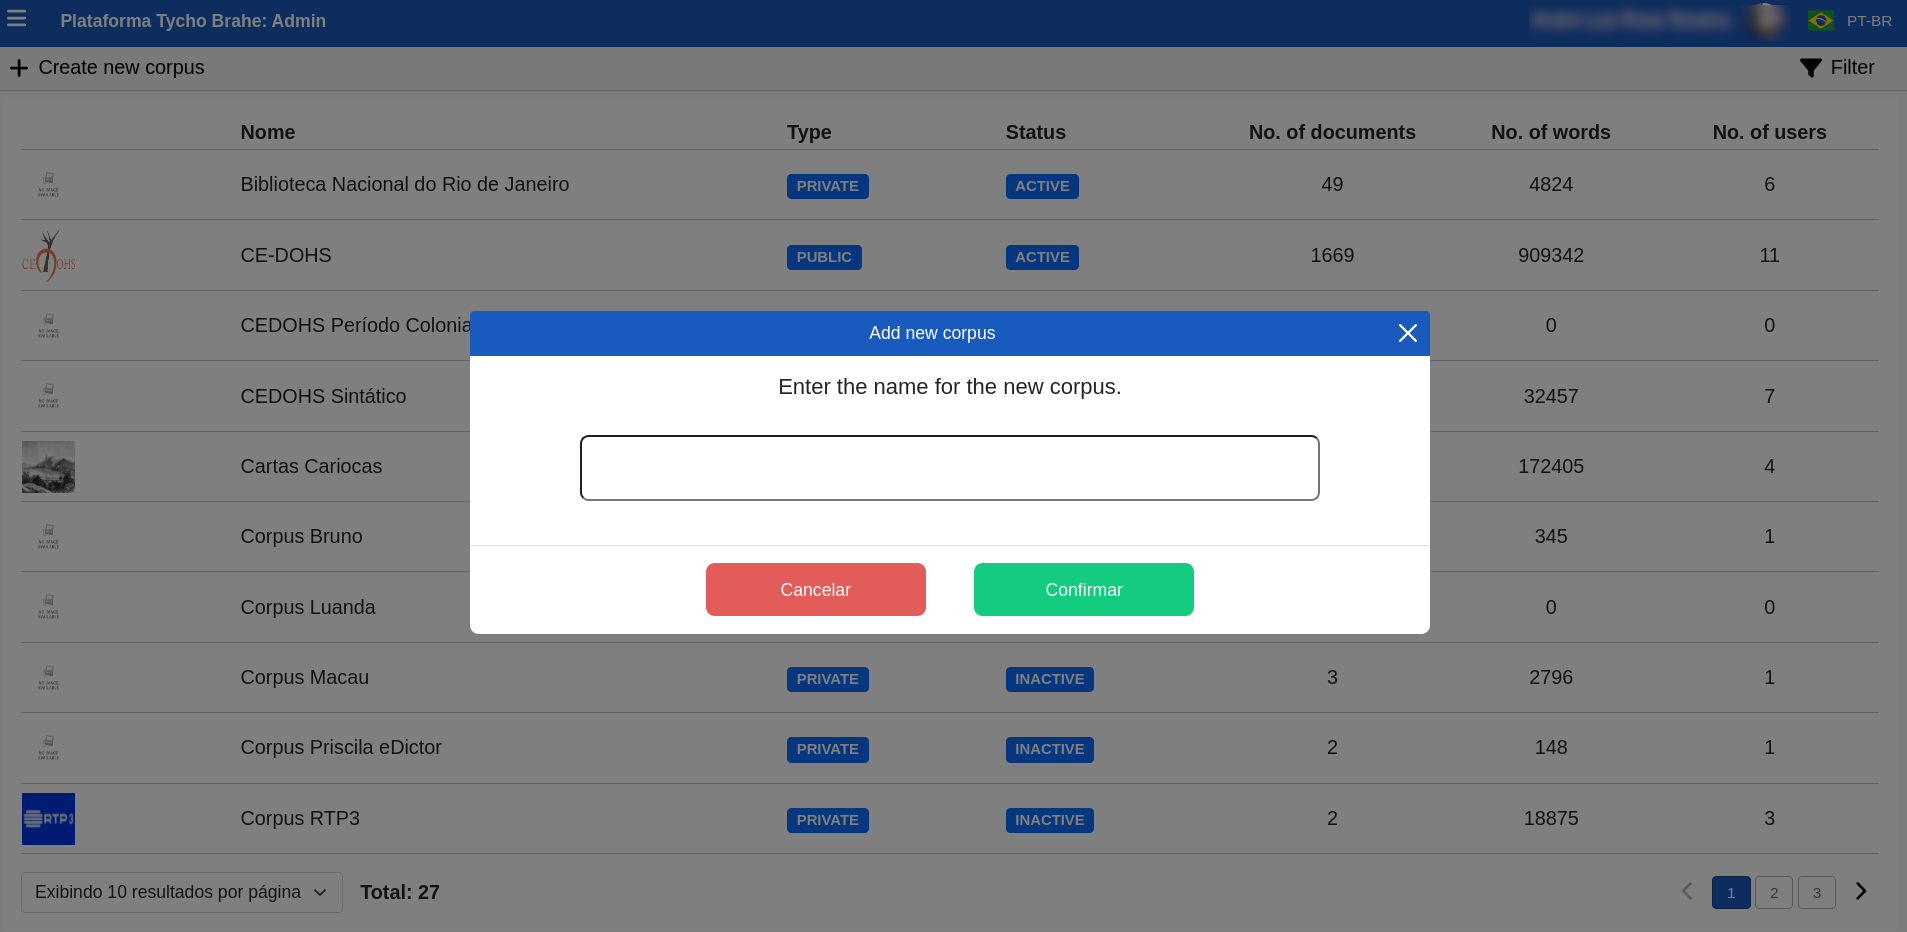
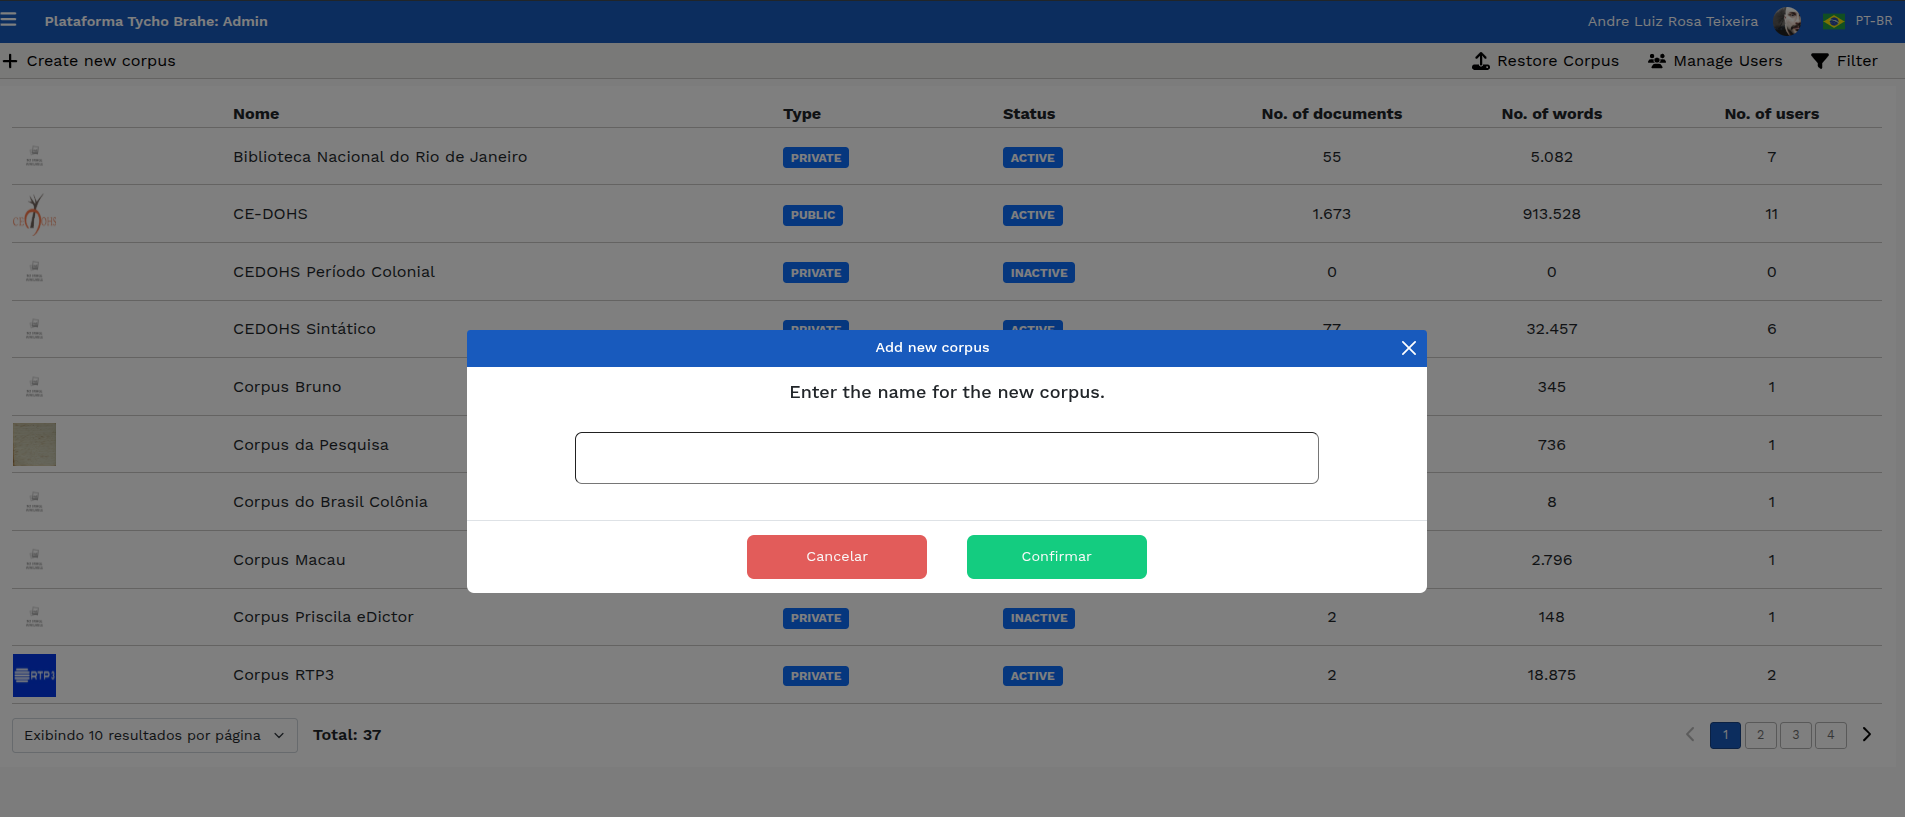
Atualiza - 08 jul- revisão

diff --git a/casos_de_uso_tutorial/tutorial_caso_01_cadastro_novos_usuarios.md b/casos_de_uso_tutorial/tutorial_caso_01_cadastro_novos_usuarios.md
@@ -54,22 +54,51 @@ Note-se a distinção entre Administrador e Usuário com permissão de administr
 
 Antes de iniciar o processo de cadastro de um usuário, certifique-se de que o corpus ao qual o usuário será associado já tenha sido criado.
 
-1. **Acesso ao Sistema**: Há duas maneira de acessar o sistema de gerenciamento dos corpora.
+**Acesso ao Sistema**: Há duas maneira de acessar o sistema de gerenciamento dos corpora.
 
-   1. No caso de acesso por um Administrador sem associação a nenhum corpus na plataforma: faça login na plataforma com sua conta de Administrador (_login_ com a conta Google), através do link <!--(REVISAR: VERIFICAR SE POSSO DEIXAR O LINK) --> “/admin”: <https://www.tycho.iel.unicamp.br/admin>. Este link redireciona o Administrador à janela de login com a conta Google ou com as credenciais (email e senha) cadastradas.
+   1. No caso de acesso por um Administrador sem associação a nenhum corpus na plataforma: faça login na plataforma com sua conta de Administrador (_login_ com a conta Google), através do link “/admin”: <https://www.tycho.iel.unicamp.br/admin>. Este link redireciona o Administrador à janela de login com a conta Google ou com as credenciais (email e senha) cadastradas.
    2. No caso de acesso por um Usuário com permissão de admin nos corpora alvos: seguir tutorial de Caso de Uso 00 - para acesso à area de perfil do usuário.
 
-2. **Verificar Corpora**:
+**Verificar Corpora**:
 
-   1. **Administrador**: todos os corpora disponíveis para o Administrador aparecem na sua página inicial, através do link <https://www.tycho.iel.unicamp.br/admin> (e devido login), listados com os campos: Nome, Type, Status No. of documents, No. of words, No. of users. Verifique se o corpus que deseja gerenciar está disponível (note que são exibidos 10 resultados por página, e que pode haver várias páginas de corpora - então navegue em todas as páginas para verificar a presença do corpus alvo).<br><br>!["t"](../imagens/corpus_selecionado.png)
-      Tela inicial Administrador.<br><br>
-   2. **Usuário com permissão de admin**: O Usuário admin tem acesso aos corpora aos quais está vínculado após o acesso pela "Área reservada" e o seu login, como no Caso de uso 00 -Tutorial:fluxo normal [2], e acesso à área de gerenciamento do corpus através do botão "Admin" na área "Meus corpora" (em Caso de uso 00 - Tutorial: fluxo normal[4]), como apresentado na Figura a seguir:<br>
+**Administrador**: todos os corpora disponíveis para o Administrador aparecem na sua página inicial, através do link <https://www.tycho.iel.unicamp.br/admin> (e devido login), listados com os campos: Nome, Type, Status No. of documents, No. of words, No. of users. Verifique se o corpus que deseja gerenciar está disponível (note que são exibidos 10 resultados por página, e que pode haver várias páginas de corpora - então navegue em todas as páginas para verificar a presença do corpus alvo).
+
+!["t"](../imagens/admin/tycho_admin_50.png)
+
+Nesta tela, o administrador consegue realizar algumas tarefas de gestão, como: 
+
+**Restaurar um corpus**:
+
+   1. Clique sobre o botão “Restore corpus”.
+   2. Arraste e solte um arquivo ou clique e selecione para enviar um arquivo e confirme.
+
+![](../imagens/admin/tycho_admin_51.png)
+
+**Gerenciar usuários**: verificar informações de usuários na plataforma.
+
+   1. Clique sobre o botão “Manage users”: serão apresentados todos os usuários.
+   2. . Clique sobre um usuário para ver suas informações.
+   3. Informações do usuário selecionado: Nome, e-mail, UID, Corpora aos quais o usuário é associado.
+   ![](../imagens/admin/tycho_admin_52.png)
+
+**Filtrar corpora**: busca corpora, filtrando com base nas informaçõs fornecidas:
+
+   1. Clique sobre o botão “Filter”.
+   2. Preencha:
+      1. **Containing text on name**: retorna os documentos que contenham as palavras informadas no título do documento.
+      2. **Public corpus**: ao clicar,  filtrar corpora públicos ou privados.
+      3. **Clear**: limpa o filtro e refaz a busca.
+      4. **Search**: executa a busca de acordo com os filtros preenchidos.
+
+      ![](../imagens/admin/tycho_admin_54.png)
+
+**Usuário com permissão de admin**: O Usuário admin tem acesso aos corpora aos quais está vínculado após o acesso pela "Área reservada" e o seu login, como no Caso de uso 00 -Tutorial:fluxo normal [2], e acesso à área de gerenciamento do corpus através do botão "Admin" na área "Meus corpora" (em Caso de uso 00 - Tutorial: fluxo normal[4]), como apresentado na Figura a seguir:<br>
       !["Acesso aos corpora por Usuário admin"](../imagens/perfil_plataforma.png)
       Tela inicial perfil - Área reservada<br><br>
 
-   Previamente, o usuário já deve ter realizado contato com a coordenação do projeto solicitando sua associação a determinado corpus. A coordenação então entra em contato com o administrador solicitando associação/cadastro a um determinado corpus. Veja a Figura abaixo:
+Previamente, o usuário já deve ter realizado contato com a coordenação do projeto solicitando sua associação a determinado corpus. A coordenação então entra em contato com o administrador solicitando associação/cadastro a um determinado corpus. Veja a Figura abaixo:
 
-3. **Selecionar o Corpus**:
+**Selecionar o Corpus**:
 
    1. Na interface de Administrador, selecione o corpus ao qual o novo usuário será associado. A Figura a seguir apresenta o catálogo de corpora disponíveis para acesso. Ao clicar em um dos corpora, o usuário é redirecionado ao corpus específico, como apresentado na Figura, como apresentado no topo da página “Corpus: Demonstration”.<br>
       !["Acessanco corpus pelo Administrador"](../imagens/selecionando_corpus_demo.png)
@@ -77,18 +106,15 @@ Antes de iniciar o processo de cadastro de um usuário, certifique-se de que o c
    2. No caso do Usuário com permissão admin em determinados corpora, há duas maneiras de acessar a área de gerenciamento: na área "Meus corpora" na página incial do perfil, em "Acesso rápido", clique em "Admin"; ou na área "Minhas Ferramentas", selecione "Admin":<br><br>!["Acesso à área de administração corpora"](../imagens/acesso_rapido_admin.png)
       Acesso à área de administração dos corpra.<br><br>
 
-4. **Acessar "Access Control**: Na primeira tela de administração do corpus, são apresentadas informações gerais, como nome, um atalho URL, os parsers etc. No painel do corpus, clique na aba "Access Control" para gerenciar as permissões de acesso.
+**Acessar "Access Control**: Na primeira tela de administração do corpus, são apresentadas informações gerais, como nome, um atalho URL, os parsers etc. No painel do corpus, clique na aba "Access Control" para gerenciar as permissões de acesso.
 
-   ![](../imagens/corpus_selecionado_access_control.png)
-   Pagina inicial do corpus selecionado - Controle de acesso<br><br>
-
+   ![](../imagens/admin/tycho_admin_55.png)
+  
 Ao acessar o “Access Control”, a plataforma apresenta uma página com os atuais usuários com permissões no corpus selecionado, como mostra a Figura a seguir. Com botão “Users” selecionado, é apresentado o usuário com os seguintes campos - “Name”, “status”, “Role”.
 
 !["Área de controle de acesso"](../imagens/access_control_acessado.png)
-Área de Controle de acesso
 
-5. **Criar Convite de acesso**: Na aba "Access Control", clique no botão "Invites" e depois em “ + Add new”.
-6. **Realizar as configurações da permissão:**
+**Criar Convite de acesso**: Na aba "Access Control", clique no botão "Invites" e depois em “ + Add new”. Uma nova janela se abre para que o admin possa realizar as configurações da permissão:
 
    1. **Inserir título:** Escolha um título para o convite no campo “Title”
    2. **Definir Quantidade de Convites**: Escolha se o convite será para um único usuário ou para múltiplos usuários (o contador de convites disponíveis será atualizado conforme os usuários se registrarem).
@@ -99,17 +125,15 @@ Ao acessar o “Access Control”, a plataforma apresenta uma página com os atu
    5. **Status do Usuário**: Selecione o status do usuário:
       - **Active**: O usuário terá acesso ativo ao corpus.
       - **Inactive**: O usuário estará registrado, mas sem acesso ativo.
-
-7. **Confirmar as Configurações de permissão**: Após configurar as permissões clicar em "Confirmar".
+   6. Após configurar as permissões clicar em "Confirmar".
 
    !["Cria a configura convite"](../imagens/invites_2.png)
-   
-8. Após a geração do convite, o admin consegue enviar uma notificação automática com o convite para o email cadastrado. Usuário 
 
-   ![](../imagens/invites_3.png)
+Após a geração do convite, o admin consegue enviar uma notificação automática com o convite para o e-mail cadastrado, copiar o ID do convite. Além disso, é possível reacessar o convite para verificação das informações, reenvio do e-mail etc. 
 
+   ![](../imagens/admin/tycho_admin_56.png)
 
-9.  Usuário recém cadastrado deve receber um email automático neste formato e deve clicar em "Join now" para ser redirecionado à página de adesão ao corpus e inserir o código de acesso constante no email.
+O usuário recém cadastrado deve receber um email automático neste formato e deve clicar em "Join now" para ser redirecionado à página de adesão ao corpus e inserir o código de acesso constante no email.
    ![](../imagens/invites_4.png)
 
 #### **Fluxo Alternativo 1 - Usuário já presente na Base de Dados, vinculado a outro corpus**
@@ -157,16 +181,13 @@ Além do cadastro de novos usuários, a plataforma também oferece funcionalidad
 2. Para realizar alterações de controle de acesso do usuário, selecione um usuário, clicando sobre o perfil. Uma caixa com as informações do perfil do usuário se abre, com três colunas: 
 **Profile**: foto, nome e email associado; Botão para revogar acesso do usuário: para revogar, clique sobre o botão "Revoke access" (o acesso do usuário é revogado imediatamente).
 
-   ![](../imagens/admin/tycho_admin_23.png) 
-
-**Access**: nesta coluna, o adminstrador consegue configurar o "Role"(papel) do usuário; o status; Display in Viwer:
+   **Access**: nesta coluna, o adminstrador consegue configurar o "Role"(papel) do usuário; o status; Display in Viwer:
 
    1. Role
       1. Clique sobre o "papel"
       2. Selecione entre: Admnistrator, Editor e Visitor.
       3. Clique em "aplicar" para salvar a seleção.
-      ![](../imagens/admin/tycho_admin_24.png) 
-
+  
    2. Status
       1. Clique sobre o Status.
       2. Selecione entre Active e Inactive.
@@ -175,9 +196,8 @@ Além do cadastro de novos usuários, a plataforma também oferece funcionalidad
    3. Display in Viwer
       1. Alterne para apresentar ou não o perfil do usuário na página do corpus, no viewer e na página principal.
 
-![](../imagens/admin/tycho_admin_25.png)
-
    **Other Corpora**: apresenta os outros corpora aos quais o usuário é associado.
-   ![](../imagens/admin/tycho_admin_26.png) 
+
+![](../imagens/admin/tycho_admin_23.png)
 
 ---

diff --git a/casos_de_uso_tutorial/tutorial_caso_03_criacao_configura_corpora_pag_admin.md b/casos_de_uso_tutorial/tutorial_caso_03_criacao_configura_corpora_pag_admin.md
@@ -65,12 +65,11 @@ Nos tópicos a seguir, serão abordados os principais fluxos de trabalho para a 
 
 ![Criação novo corpus](../imagens/criacao_corpus.png)
 
-3. Adicione um nome ao novo corpus e clique em "Confirmar": esta ação finaliza a criação do corpus (Note que estas ações apenas criam o corpus. Para inclusão/edição de documentos, ou seja, alimentar o corpus ver Caso de uso 03.2). Após preencher com o nome desejado, clique em "Confirmar". Esta ação cria um novo corpus, que aparecerá na lista.
+3. Adicione um nome ao novo corpus e clique em "Confirmar": esta ação finaliza a criação do corpus (Note que estas ações apenas criam o corpus. Para inclusão/edição de documentos, ou seja, alimentar o corpus ver Caso de uso 03.2). Esta ação cria um novo corpus, que aparecerá na lista.
 
 ![Criação corpus: inserir nome](../imagens/criacao_corpus_nome.png)
-Criação de corpus: inserção de nome
 
-**Nota**: este processo apenas cria o corpus. Sua alimentação (importação de dados/transcrição de áudios/extração de dados a partir de textos impressos etc.) pode ser realizada de diferentes formas a depender do tipo de material disponível (textos em papel, áudios, arquivos .txt, arquivos .csv - com ou sem traduções), das configurações estabelecidas (Caso de uso 03.2). É necessário que haja uma interação com a equipe responsável pelo desenvolvimento da plataforma para que a melhor estratégia de importação de dados seja escolhida e aplicada. Cada um dos tipos de importação/transcrição de dados linguísticos será discutido separadamente nesta documentação.
+**Nota**: este processo apenas cria o corpus. Sua alimentação (importação de dados/transcrição de áudios/extração de dados a partir de textos impressos etc.) pode ser realizada de diferentes formas a depender do tipo de material disponível (textos em papel, áudios, arquivos .txt, arquivos .csv - com ou sem traduções), das configurações estabelecidas (Caso de uso 03.2). É necessário que haja uma interação com a equipe responsável pelo desenvolvimento da plataforma para que a melhor estratégia de importação de dados seja escolhida e aplicada. Cada um dos tipos de importação/transcrição de dados linguísticos será discutido separadamente na documentação.
 
 ### Configuração de corpora
 
@@ -85,7 +84,7 @@ Criação de corpus: inserção de nome
 
 **Pré-requisitos:**
 
-1. Os usuários devem ser previamente cadastrados e ter permissões de administrador. Para cadastro, ver Caso de uso 01; para solicitar cadastro, ver Caso de uso 02. Um corpus deve ter sido criado previamente (ver caso de uso 03.1).
+Os usuários devem ser previamente cadastrados e ter permissões de administrador. Para cadastro, ver Caso de uso 01; para solicitar cadastro, ver Caso de uso 02. Um corpus deve ter sido criado previamente (ver caso de uso 03.1).
 
 #### **Fluxo normal**
 
@@ -94,20 +93,26 @@ Criação de corpus: inserção de nome
 2. Navegue até a área "Ferramentas" e selecione "Área Reservada".
 
 ![Acesso área reservada](../imagens/acesso_area_reservada.png)
-Acessando "Área Reservada"
+
 
 3. Na página de perfil que se abre, os corpora disponíveis, vinculados ao usuário, são apresentados. Selecione o corpus que deseja configurar e clique no botão "Admin" na área de "Acesso rápido" ou "Admin" na área "Minhas Ferramentas" e selecione o corpus que deseja configurar.
 
 ![Acesso rápido](../imagens/acesso_rapido_admin.png)
-Acesso rápido - botões "Admin"
 
 4. Na tela inicial de adminstração do corpus selecionado, são apresentadas 6 abas de configuração do corpus: **Information, Resume, Parâmetros, Access Control, Catalog, e Configurations**. Cada uma delas será detalhada abaixo. 
 
 ##### **Aba Information**
 
-Ao clicar-se nesta aba, aparecem três colunas de informação: informações gerais sobre o corpus, a maioria delas editáveis; Galeria de imagens; e Artigos Relacionados.
+Ao clicar-se nesta aba, aparecem quatro campos de informações:
 
-![](../imagens/admin/tycho_admin_1.png)
+- Information: informações gerais sobre o corpus, a maioria delas editáveis; 
+- Image galery: galeria de imagens do corpus selecionado;
+- Related papers: selecão de artigos científicos associados ao corpus.
+
+![](../imagens/admin/tycho_admin_1_2.png)
+
+![](../imagens/admin/tycho_admin_1_3.png)
+
 
 ###### Coluna **General Information**
 
@@ -118,6 +123,7 @@ Ao clicar-se nesta aba, aparecem três colunas de informação: informações ge
 3. Clique em "aplicar" para salvar as alterações.
 
 ![](../imagens/admin/tycho_admin_2.png)
+
 
 **URL Shortcut**: este campo apresenta o atalho que redireciona para o corpus no Visualizador (www.tycho.iel.unicamp.br/c/shortcut). Neste sentido, só surte efeito se o corpus for parametrizado como "público".
 

diff --git a/casos_de_uso_tutorial/tutorial_caso_07_visualizador_corpora.md b/casos_de_uso_tutorial/tutorial_caso_07_visualizador_corpora.md
@@ -52,45 +52,45 @@ Este tutorial tem como objetivo guiar os usuários no uso do visualizador de cor
 
 1. Acesse a página inicial da plataforma Tycho Brahe no endereço <https://www.tycho.iel.unicamp.br/home>.
 
-2. Clique no "Vizualizador" na área de "Ferramentas".
+2. Clique no "visualizador" na área de "Ferramentas".
 
-![Acessando visualizador](../imagens/vizualizador/vizualizador_1.png)
+![Acessando visualizador](../imagens/visualizador/visualizador_1.png)
 Acessando o Visulizador de corpus.
 
 3. Selecione um dos corpora disponíveis na lista.
    1. São apresentadas informações como número de documentos e número de palavras nos corpora.
 
-![Seleção de corpora para visualização](../imagens/vizualizador/visualizador_2.png)
+![Seleção de corpora para visualização](../imagens/visualizador/visualizador_2.png)
 
 4. Navegue pela lista de documentose e selecione um documento. Há alguma ícones que disponibilizam algumas funcionalidades:
 
 - Filtragem de documentos por palavra ou status:
 
-![Filtragem de docs](../imagens/vizualizador/visualizador_3.png)
+![Filtragem de docs](../imagens/visualizador/visualizador_3.png)
 Filtragem de documentos no Visualizador
 
 - Documentos dispostos em forma de grade ou lista:
 
-![Docs em grade](../imagens/vizualizador/visualizador_4.png)
+![Docs em grade](../imagens/visualizador/visualizador_4.png)
 Disposição de documentos em grade.
 
-![Docs em lista](../imagens/vizualizador/visualizador_5.png)
+![Docs em lista](../imagens/visualizador/visualizador_5.png)
 Disposição de documentos em lista.
 
 - Botão de compartilhamento de link do corpus:
 
-![Link corpus](../imagens/vizualizador/visualizador_6.png)
+![Link corpus](../imagens/visualizador/visualizador_6.png)
 Compartilhamento do link do corpus.
 
 5. Após a seleção do documento desejado, as sentenças que o corpus contém são apresentadas. Selecione a sentença desejada.
    - Na tela que apresenta as sentenças, são apresentadas: tradução, botão para tocar o áudio original, botão para realizar download do áudio, língua de tradução etc.:
 
-![Apresentação de sentenças](../imagens/vizualizador/visualizador_7.png)
+![Apresentação de sentenças](../imagens/visualizador/visualizador_7.png)
 Sentenças disponíveis no documento.
 
 - Ao ser selecionada uma sentença, são apresentadas informações como etiquetas POS, traduções, áudios disponíveis e árvore/estrutura sintática.
 
-![Sentença - camadas etiquetas](../imagens/vizualizador/visualizador_8.png)
+![Sentença - camadas etiquetas](../imagens/visualizador/visualizador_8.png)
 Anotações realizadas na sentença selecionada.
 
 ---

diff --git a/casos_de_uso_tutorial/tutorial_caso_00_sign_in.md b/casos_de_uso_tutorial/tutorial_caso_00_sign_in.md
@@ -86,14 +86,12 @@ Acessando "Área reservada".
 3. Realize o _login_ com o Google ou com suas credenciais previamente cadastradas. Selecione a conta salva no sistema ou preencha os dados da sua conta Google cadastrada na Plataforma Tycho Brahe.
 
 ![Login google](../imagens/login_2.png)
-Seleção de conta Google ou credenciais cadastradas
 
 Ou
 
 ![Tela de login](../imagens/tycho_home_signin2.png)
-Login in com o Google</figcaption>
 
-4. Após _login_ o Usuário é redirecionado à página inicial do perfil, onde são dispostas as áreas **Meu Perfil**, com Informações do usuário, como e-mail, Nome, Informações acadêmicas e Idioma de preferência, que podem eventualmente ser editadas <!-- REVISAR CRÍTICO: avisar ao Luiz que as edições não são persistidos na base, não ficam salvas-->, **Meus corpora**, que apresenta os corpora disponíveis associados ao perfil logado e **Minhas Ferrametentas**, que disponibiliza as ferramentas disponíveis para o usuário logado, de acordo com as permissões de acesso configuradas.
+4. Após _login_ o Usuário é redirecionado à página inicial do perfil, onde são dispostas as áreas **Meu Perfil**, com Informações do usuário, como e-mail, Nome, Informações acadêmicas e Idioma de preferência, que podem eventualmente ser editadas <!-- REVISAR CRÍTICO: avisar ao Luiz que as edições não são persistidos na base, não ficam salvas: ISSUE CRIADA-->, **Meus corpora**, que apresenta os corpora disponíveis associados ao perfil logado e **Minhas Ferrametentas**, que disponibiliza as ferramentas disponíveis para o usuário logado, de acordo com as permissões de acesso configuradas.
 
 !["Tela de perfil do usuário"](../imagens/area_reservada_perfil.png)
 Figure x: Tela inicial - perfil de usuário
